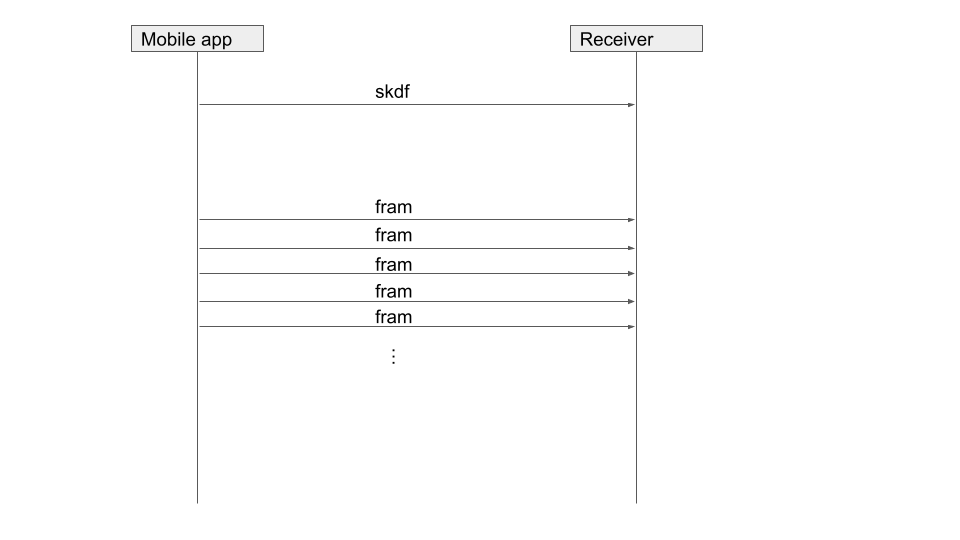
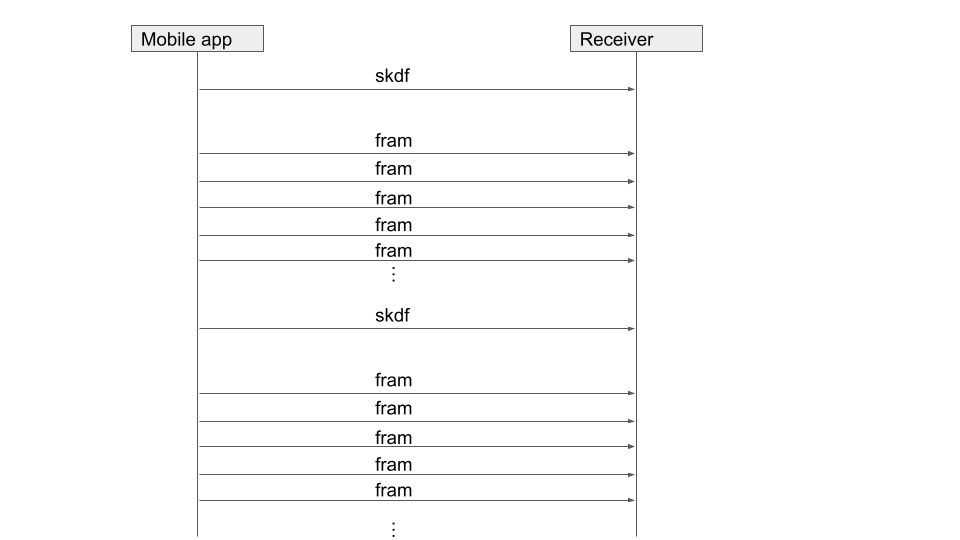
Updated descriptions of skdf parameter in "Communication between Sender and Receiver"

diff --git a/doc/Protocol.md b/doc/Protocol.md
@@ -48,6 +48,9 @@ Mobile app continues to send updated motion to specified port. No interactive co
 ![sequence](seq.png)
 
 Mobile app sends `skdf` packet at the beginning of the connection.
+It contains default definition of skeleton parameters of bones with T-pose.
+Mobile app seems to send `skdf` packet periodically in every few seconds.
+
 Then it continues sending sequence of `fram` packet when sensor get new value (need confirmation.)
 
 ## Serialization Format
